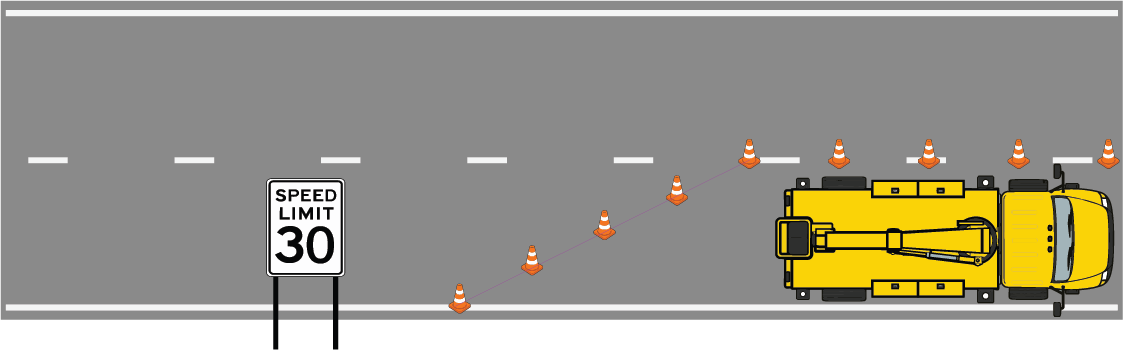
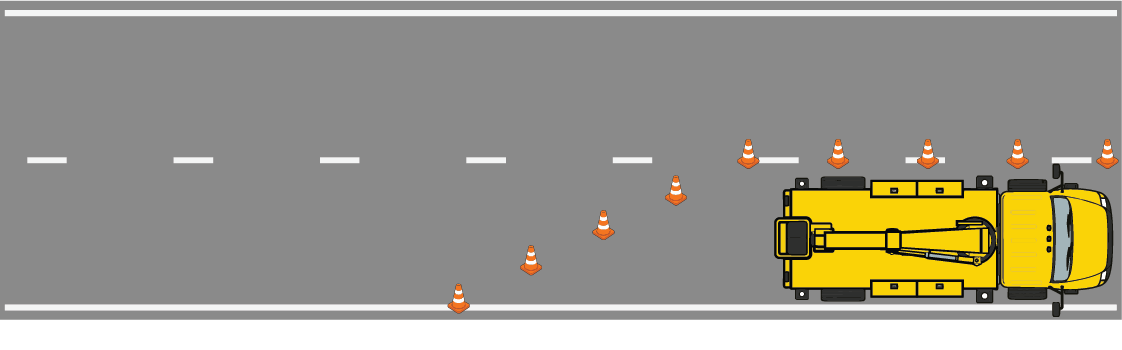
Update taper examples

diff --git a/index.html b/index.html
@@ -311,7 +311,7 @@
     </main>
 
     <div class="creator-strip">
-      <div class="section-inner">Created by AJ Thomas.</div>
+      <div class="section-inner">Created by AJ Thomas</div>
     </div>
 
     <footer class="site-footer">

diff --git a/service-worker.js b/service-worker.js
@@ -1,4 +1,4 @@
-const CACHE_NAME = "tapercheck-v4";
+const CACHE_NAME = "tapercheck-v5";
 const APP_ASSETS = [
   "/",
   "/index.html",
